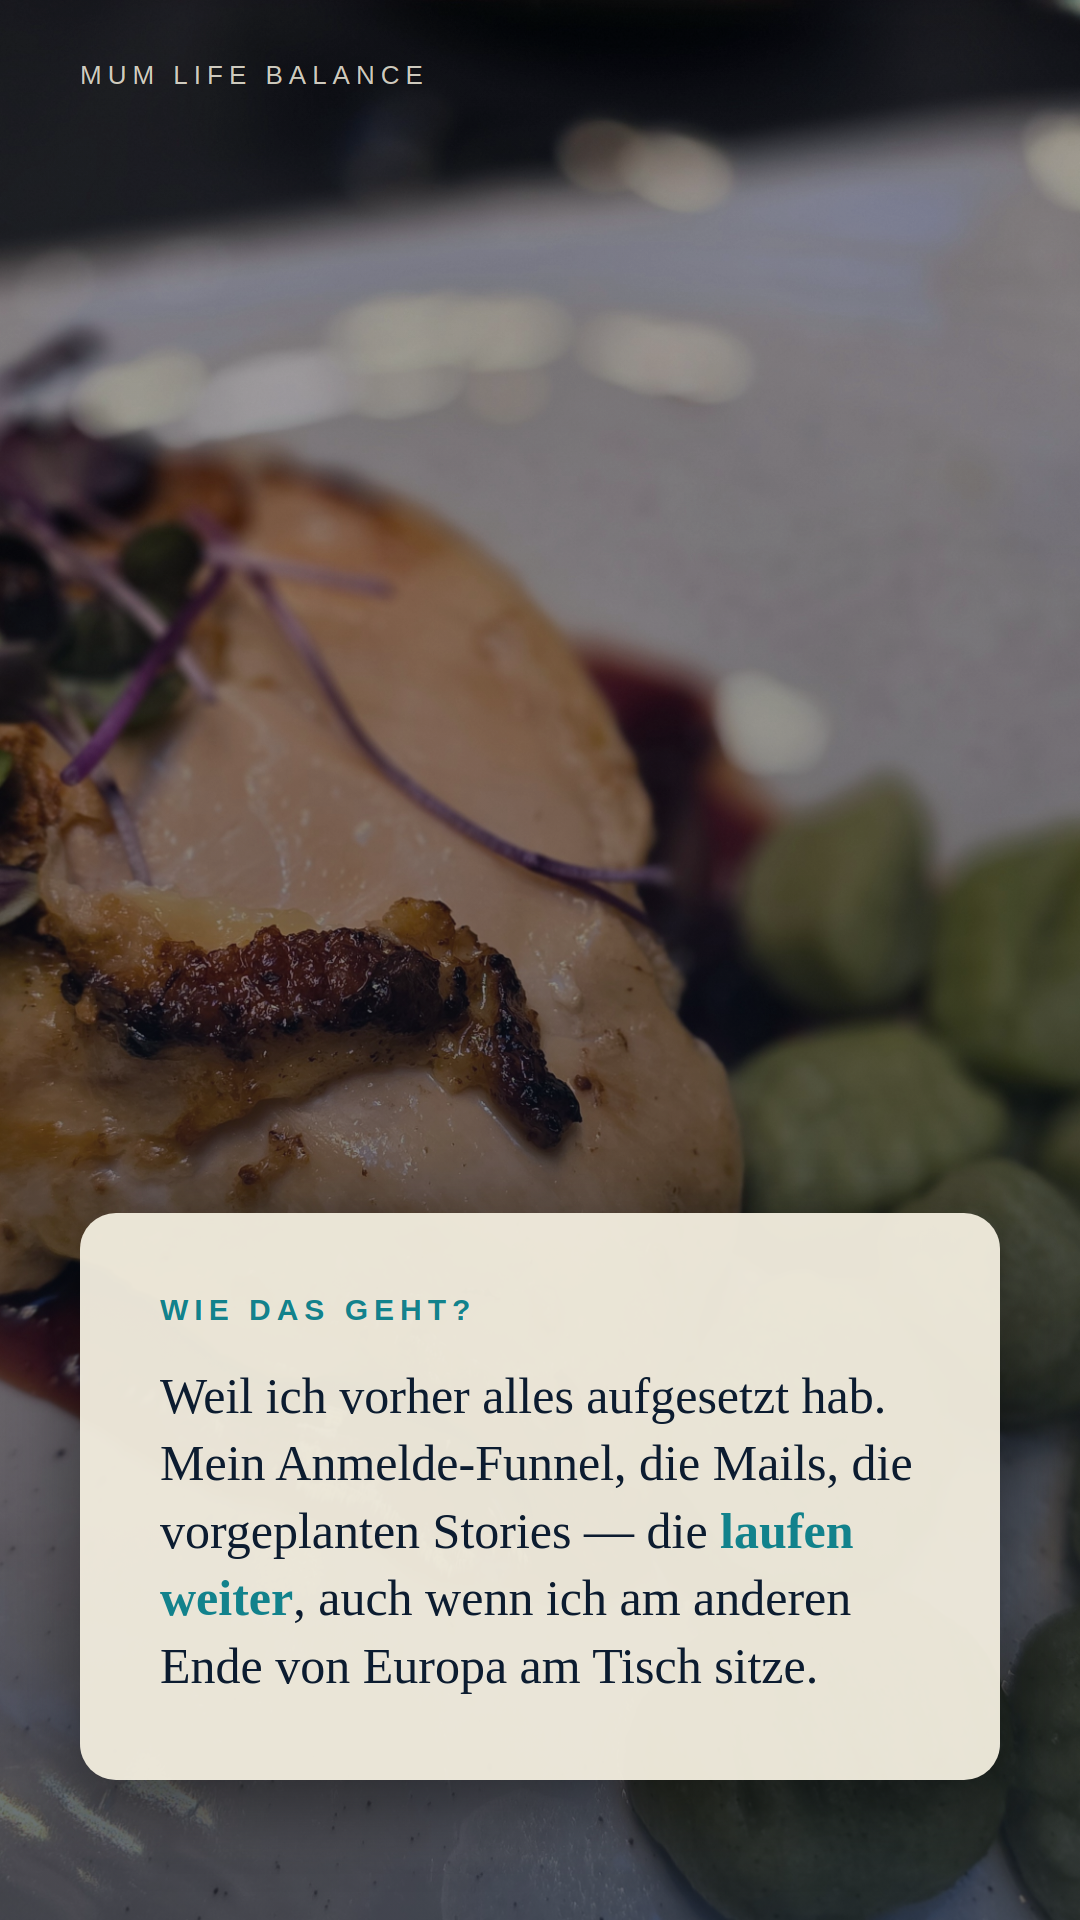
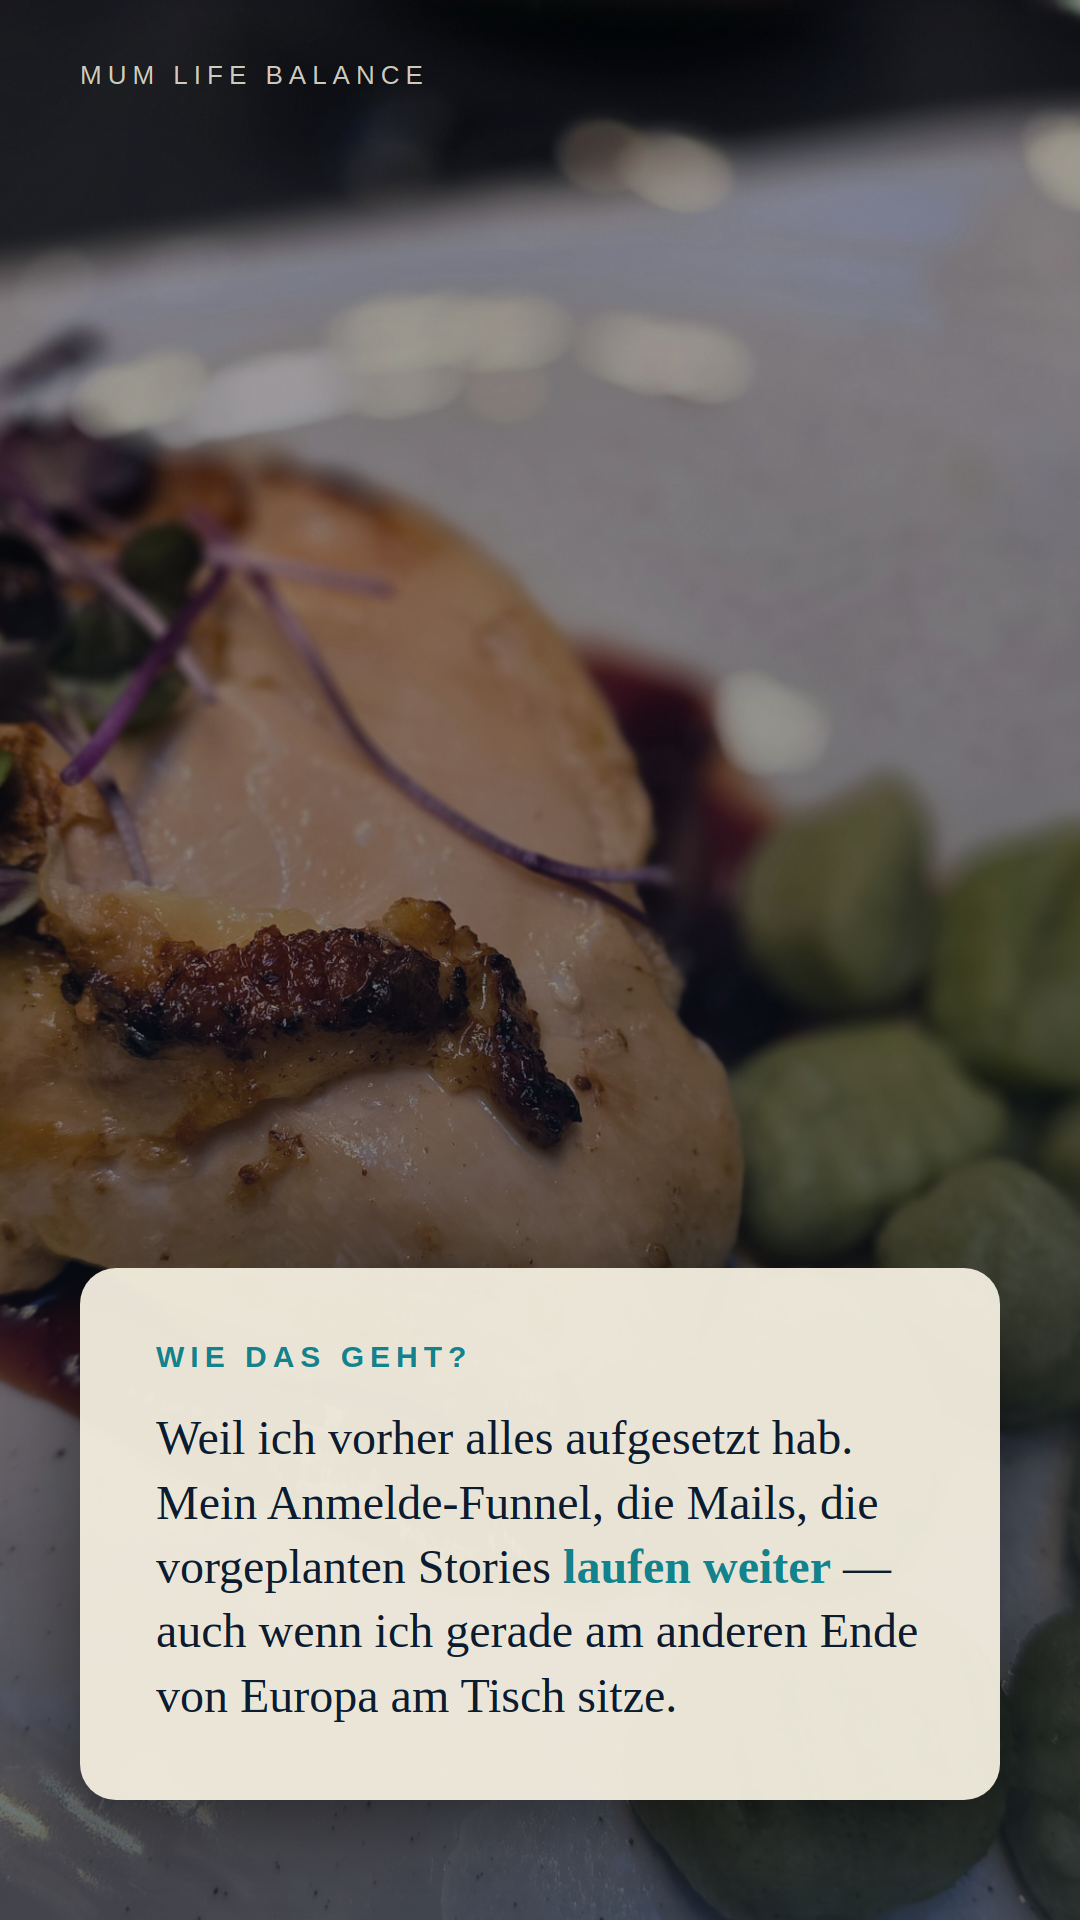
Story 28.5.: Tiefe + Gesicht-Fix — Für-wen-Slide ergänzt, 6 Slides
Julias "Also für wen ist der Kurs?"-Beat ergänzt (Avatar konkret benannt),
Transformation auf Slide 4 vertieft. Gesicht-Crop auf Slide 2 nach oben
gezogen (volle Sichtbarkeit), CTA auf Saal-Foto verschoben statt
Gesicht-Foto mit oben sitzender Card.

https://claude.ai/code/session_01HMRXhMZqqmqK2EwaUimnRp

Changed region(s): [[0.0611, 0.625, 0.9472, 0.9375]]

diff --git a/outputs/stories/2026-05-28-salesday-mentoring-mama-ceo-teamessen-launch-laeuft-ohne-mich/slides.html b/outputs/stories/2026-05-28-salesday-mentoring-mama-ceo-teamessen-launch-laeuft-ohne-mich/slides.html
@@ -2,20 +2,21 @@
 <html lang="de">
 <head>
 <meta charset="UTF-8">
-<title>Mama-CEO · 28.5.2026 · Teamessen Katowice · Launch läuft ohne mich (Julia-Template) · 5 Slides</title>
+<title>Mama-CEO · 28.5.2026 · Teamessen Katowice · Launch läuft ohne mich + Für wen (Julia-Template) · 6 Slides</title>
 <link rel="stylesheet" href="../../../scripts/karussell-render/brand-stories.css">
 <style>
   .slide.foto-slide { width:1080px; height:1920px; position:relative; overflow:hidden; background:#0c1c30; page-break-after:always; break-after:page; }
   .foto-slide img.bg { position:absolute; inset:0; width:100%; height:100%; object-fit:cover; filter:brightness(0.78) saturate(0.95); }
+  .foto-slide img.bg.face { object-position:center 28%; }
   .foto-slide .dim { position:absolute; inset:0; background:linear-gradient(180deg, rgba(12,28,48,0.10) 0%, rgba(12,28,48,0.50) 100%); z-index:1; }
-  .foto-slide .card { position:absolute; left:80px; right:80px; bottom:140px; background:rgba(241,236,221,0.96); border-radius:36px; padding:80px 80px; box-shadow:0 24px 80px rgba(0,0,0,0.45); z-index:2; }
-  .foto-slide .card.top { bottom:auto; top:140px; }
+  .foto-slide .card { position:absolute; left:80px; right:80px; bottom:120px; background:rgba(241,236,221,0.96); border-radius:36px; padding:72px 76px; box-shadow:0 24px 80px rgba(0,0,0,0.45); z-index:2; }
+  .foto-slide .card.top { bottom:auto; top:120px; }
   .foto-slide .card.center { top:50%; bottom:auto; transform:translateY(-50%); }
-  .foto-slide .card-eyebrow { font-family:'Source Sans 3',sans-serif; font-size:30px; font-weight:700; letter-spacing:6px; text-transform:uppercase; color:#12828c; margin-bottom:36px; }
-  .foto-slide .card-text { font-family:'Philosopher',serif; font-size:50px; font-weight:400; line-height:1.35; color:#0c1c30; }
+  .foto-slide .card-eyebrow { font-family:'Source Sans 3',sans-serif; font-size:30px; font-weight:700; letter-spacing:6px; text-transform:uppercase; color:#12828c; margin-bottom:32px; }
+  .foto-slide .card-text { font-family:'Philosopher',serif; font-size:48px; font-weight:400; line-height:1.34; color:#0c1c30; }
   .foto-slide .card-text strong { color:#12828c; font-weight:700; }
   .foto-slide .card-text em { font-style:italic; color:#29556d; }
-  .foto-slide .card-text.hook { font-size:58px; line-height:1.28; font-weight:700; }
+  .foto-slide .card-text.hook { font-size:56px; line-height:1.28; font-weight:700; }
   .foto-slide .brand-tag { position:absolute; top:60px; left:80px; font-family:'Source Sans 3',sans-serif; font-size:26px; letter-spacing:6px; text-transform:uppercase; color:rgba(241,236,221,0.85); z-index:3; }
   .foto-slide .cta-knappheit { margin-top:36px; font-family:'Source Sans 3',sans-serif; font-size:32px; color:#ad5e1f; font-style:italic; }
 </style>
@@ -42,11 +43,11 @@
     <div class="frame-label">01 Hook · Frage (scheinbar klar)</div>
   </div>
 
-  <!-- SLIDE 2: GEGENTEIL · alkoholfreier Cocktail statt am Handy (Julia-Template Schritt 2) -->
+  <!-- SLIDE 2: GEGENTEIL · alkoholfreier Cocktail statt am Handy (Card unten, Gesicht frei) -->
   <div class="stage-wrap">
     <div class="stage">
       <div class="slide foto-slide">
-        <img class="bg" src="fotos/slide-02-cocktail.jpg" alt="">
+        <img class="bg face" src="fotos/slide-02-cocktail.jpg" alt="">
         <div class="dim"></div>
         <div class="brand-tag">Mum Life Balance</div>
         <div class="card">
@@ -70,7 +71,7 @@
         <div class="card">
           <div class="card-eyebrow">Wie das geht?</div>
           <div class="card-text">
-            Weil ich vorher alles aufgesetzt hab. Mein Anmelde-Funnel, die Mails, die vorgeplanten Stories — die <strong>laufen weiter</strong>, auch wenn ich am anderen Ende von Europa am Tisch sitze.
+            Weil ich vorher alles aufgesetzt hab. Mein Anmelde-Funnel, die Mails, die vorgeplanten Stories <strong>laufen weiter</strong> — auch wenn ich gerade am anderen Ende von Europa am Tisch sitze.
           </div>
         </div>
       </div>
@@ -78,7 +79,7 @@
     <div class="frame-label">03 Warum · Systeme laufen weiter</div>
   </div>
 
-  <!-- SLIDE 4: BEZUG ZUM ANGEBOT · Mama-CEO (Julia-Template Schritt 4) -->
+  <!-- SLIDE 4: BEZUG ZUM ANGEBOT · Transformation (Julia-Template Schritt 4) -->
   <div class="stage-wrap">
     <div class="stage">
       <div class="slide foto-slide">
@@ -88,19 +89,37 @@
         <div class="card">
           <div class="card-eyebrow">Und genau das ist Mama-CEO</div>
           <div class="card-text">
-            Nicht noch mehr Stunden reinstecken — sondern dein Business so aufstellen, dass es auch in <strong>Spitalwochen</strong> oder auf Reisen ohne dich trägt. Damit du den Kopf frei hast für das, was wirklich zählt.
+            In 8 Wochen baust du dir einen <strong>Wochenrhythmus</strong>, der zu deinem Mama-Leben passt, ein KI-Team das den Adminkram übernimmt, und ein Business, das auch in <strong>Spitalwochen</strong> trägt — statt dir noch mehr Stunden zu nehmen.
           </div>
         </div>
       </div>
     </div>
-    <div class="frame-label">04 Bezug · Mama-CEO</div>
+    <div class="frame-label">04 Bezug · Transformation</div>
   </div>
 
-  <!-- SLIDE 5: CTA · Cart-Close (Card top, Link-Sticker-Slot unten) -->
+  <!-- SLIDE 5: FÜR WEN · Avatar konkret benennen (Julia "Also für wen ist der Kurs?") -->
   <div class="stage-wrap">
     <div class="stage">
       <div class="slide foto-slide">
-        <img class="bg" src="fotos/slide-02-cocktail.jpg" alt="">
+        <img class="bg" src="fotos/slide-05-vorspeise.jpg" alt="">
+        <div class="dim"></div>
+        <div class="brand-tag">Mum Life Balance</div>
+        <div class="card">
+          <div class="card-eyebrow">Also für wen ist Mama-CEO?</div>
+          <div class="card-text">
+            Für dich, wenn du dein Business <strong>neben deinen Kindern</strong> aufbaust und es satt hast, abends im Reagier-Modus am Handy zu hängen, während alle schlafen. Wenn du nicht mehr Stunden willst — sondern ein <em>System, das auch dann trägt, wenn das Leben dazwischenkommt</em>.
+          </div>
+        </div>
+      </div>
+    </div>
+    <div class="frame-label">05 Für wen · Avatar</div>
+  </div>
+
+  <!-- SLIDE 6: CTA · Cart-Close (Saal, kein Gesicht, Card oben, Link-Sticker-Slot unten) -->
+  <div class="stage-wrap">
+    <div class="stage">
+      <div class="slide foto-slide">
+        <img class="bg" src="fotos/slide-01-teamessen-saal.jpg" alt="">
         <div class="dim"></div>
         <div class="brand-tag">Mum Life Balance</div>
         <div class="card top">
@@ -111,7 +130,7 @@
         </div>
       </div>
     </div>
-    <div class="frame-label">05 CTA · Link-Sticker-Slot unten</div>
+    <div class="frame-label">06 CTA · Link-Sticker-Slot unten</div>
   </div>
 
 </div>

diff --git a/outputs/stories/2026-05-28-salesday-mentoring-mama-ceo-teamessen-launch-laeuft-ohne-mich/briefing.md b/outputs/stories/2026-05-28-salesday-mentoring-mama-ceo-teamessen-launch-laeuft-ohne-mich/briefing.md
@@ -10,18 +10,22 @@
 1. **Frage mit scheinbar klarer Antwort** → Slide 1 (Teamessen + Launch → „womit bin ich beschäftigt?")
 2. **Gegenteil zeigen** → Slide 2 (statt am Handy: alkoholfreier Cocktail + Team)
 3. **Warum du das kannst** → Slide 3 (Systeme vorher aufgesetzt, laufen ohne mich)
-4. **Bezug zum Angebot** → Slide 4 (genau das ist Mama-CEO)
-5. **CTA** → Slide 5 (Cart-Close So 23:59, danach 555 statt 333)
+4. **Bezug zum Angebot** → Slide 4 (Transformation: Rhythmus + KI-Team + Spitalwochen)
+5. **Also für wen ist der Kurs?** → Slide 5 (Avatar konkret — der Tiefen-Beat aus Julias Vorlage)
+6. **CTA** → Slide 6 (Cart-Close So 23:59, danach 555 statt 333)
 
-## Slides (5)
+## Slides (6)
 
-| # | Foto | Beat |
-|---|------|------|
-| 1 | Restaurant-Saal (Katowice) | Hook/Frage |
-| 2 | Patricia + alkoholfreier Cocktail | Gegenteil/Reveal |
-| 3 | Hauptgang | Warum (Systeme laufen) |
-| 4 | Dessert | Bezug zu Mama-CEO |
-| 5 | Patricia + Cocktail (reuse), Card oben | CTA + Link-Sticker-Slot unten |
+| # | Foto | Beat | Card |
+|---|------|------|------|
+| 1 | Restaurant-Saal (Katowice) | Hook/Frage | unten |
+| 2 | Patricia + alkoholfreier Cocktail | Gegenteil/Reveal | unten (Gesicht frei, Crop nach oben) |
+| 3 | Hauptgang | Warum (Systeme laufen) | unten |
+| 4 | Dessert | Bezug/Transformation | unten |
+| 5 | Vorspeise | **Für wen ist Mama-CEO** (Tiefe) | unten |
+| 6 | Restaurant-Saal (reuse, kein Gesicht) | CTA | oben + Link-Sticker-Slot unten |
+
+**Gesicht-Regel:** Patricias Gesicht nur auf Slide 2, Card unten → nie verdeckt. CTA bewusst auf Saal-Foto statt Gesicht-Foto, weil Card oben sitzt.
 
 ## Eckdaten (geprüft)
 - Cart-Close: **Sonntag 31.5. 23:59**
